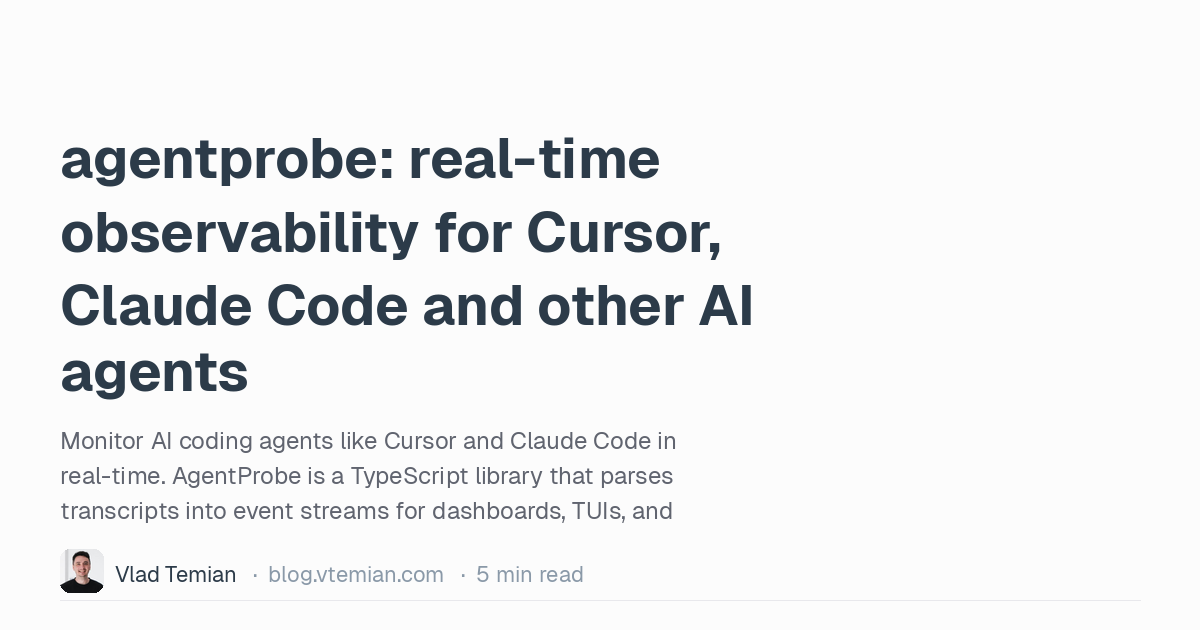
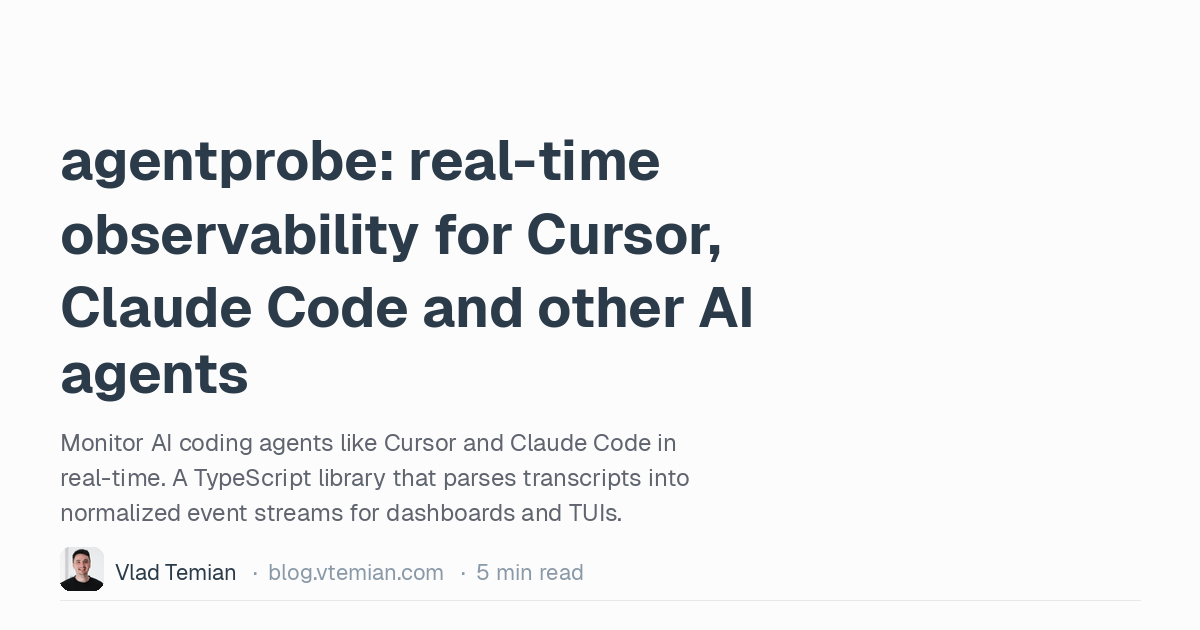
deploy: c3f24498559d6feacc58ffbb79bd29b6831778b7

diff --git a/project/agentprobe/index.html b/project/agentprobe/index.html
@@ -1,4 +1,4 @@
-<!doctype html><html lang=en><head><script>localStorage.getItem("theme")==="dark"&&document.documentElement.classList.add("dark")</script><meta http-equiv=X-UA-Compatible content="IE=edge"><meta name=viewport content="width=device-width,minimum-scale=1"><link rel=preconnect href=https://cdn.jsdelivr.net crossorigin><link rel=stylesheet href=https://cdn.jsdelivr.net/npm/geist@1/dist/fonts/geist-sans/style.css><link rel=stylesheet href=https://cdn.jsdelivr.net/npm/geist@1/dist/fonts/geist-mono/style.css><link rel=stylesheet href=//cdnjs.cloudflare.com/ajax/libs/highlight.js/11.9.0/styles/nord.min.css><script src=//cdnjs.cloudflare.com/ajax/libs/highlight.js/11.9.0/highlight.min.js></script><script>hljs.highlightAll()</script><meta charset=utf-8><meta name=robots content="index,follow"><link rel=canonical href=https://blog.vtemian.com/project/agentprobe/><link rel=icon type=image/svg+xml href=https://blog.vtemian.com/favicon.svg><link rel=apple-touch-icon href=https://blog.vtemian.com/favicon.svg><meta name=keywords content="agentprobe,ai agent observability,coding agent monitoring,cursor agent monitoring,claude code observability,monitor cursor agents,ai agent dashboard,parse cursor transcripts,typescript observability library,real-time agent events,agent lifecycle events,cursor plugin development,tui for coding agents"><meta name=description content="Monitor AI coding agents like Cursor and Claude Code in real-time. AgentProbe is a TypeScript library that parses transcripts into event streams for dashboards, TUIs, and multi-agent monitoring."><meta property="og:url" content="https://blog.vtemian.com/project/agentprobe/"><meta property="og:site_name" content="Vlad Temian - Centrist Tech Optimist"><meta property="og:title" content="agentprobe: real-time observability for Cursor, Claude Code and other AI agents"><meta property="og:description" content="Monitor AI coding agents like Cursor and Claude Code in real-time. AgentProbe is a TypeScript library that parses transcripts into event streams for dashboards, TUIs, and multi-agent monitoring."><meta property="og:locale" content="en_US"><meta property="og:type" content="article"><meta property="article:published_time" content="2026-03-09T00:00:00+03:00"><meta property="article:modified_time" content="2026-03-09T00:00:00+03:00"><meta property="article:tag" content="Ai"><meta property="article:tag" content="Tools"><meta property="article:tag" content="Open-Source"><meta property="article:tag" content="Agentic-Programming"><meta property="article:tag" content="Typescript"><meta property="article:tag" content="Observability"><meta property="og:image" content="https://blog.vtemian.com/project/agentprobe/og.png"><meta name=twitter:card content="summary_large_image"><meta name=twitter:title content="agentprobe: real-time observability for Cursor, Claude Code and other AI agents"><meta name=twitter:description content="Monitor AI coding agents like Cursor and Claude Code in real-time. AgentProbe is a TypeScript library that parses transcripts into event streams for dashboards, TUIs, and multi-agent monitoring."><meta name=twitter:image content="https://blog.vtemian.com/project/agentprobe/og.png"><script type=application/ld+json>{"@context":"https://schema.org","@type":"BlogPosting","mainEntityOfPage":{"@type":"WebPage","@id":"https:\/\/blog.vtemian.com\/project\/agentprobe\/"},"headline":"agentprobe: real-time observability for Cursor, Claude Code and other AI agents","description":"Monitor AI coding agents like Cursor and Claude Code in real-time. AgentProbe is a TypeScript library that parses transcripts into event streams for dashboards, TUIs, and multi-agent monitoring.","inLanguage":"en-US","author":{"@type":"Person","name":"Vlad Temian","url":"https:\/\/blog.vtemian.com\/","sameAs":["https://github.com/vtemian","https://linkedin.com/in/vtemian","https://x.com/vtemian"]},"publisher":{"@type":"Person","name":"Vlad Temian"},"datePublished":"2026-03-09T00:00:00\u002b03:00","dateModified":"2026-03-09T00:00:00\u002b03:00","url":"https:\/\/blog.vtemian.com\/project\/agentprobe\/","wordCount":844,"timeRequired":"PT4M","keywords":["ai","tools","open-source","agentic-programming","typescript","observability"]}</script><script type=application/ld+json>{"@context":"https://schema.org","@type":"BreadcrumbList","itemListElement":[{"@type":"ListItem","position":1,"name":"Home","item":"https:\/\/blog.vtemian.com\/"},{"@type":"ListItem","position":2,"name":"Project","item":"https:\/\/blog.vtemian.com\/project/"},{"@type":"ListItem","position":3,"name":"agentprobe: real-time observability for Cursor, Claude Code and other AI agents","item":"https:\/\/blog.vtemian.com\/project\/agentprobe\/"}]}</script><title>agentprobe: real-time observability for Cursor, Claude Code and other AI agents | Vlad Temian - Centrist Tech Optimist</title>
+<!doctype html><html lang=en><head><script>localStorage.getItem("theme")==="dark"&&document.documentElement.classList.add("dark")</script><meta http-equiv=X-UA-Compatible content="IE=edge"><meta name=viewport content="width=device-width,minimum-scale=1"><link rel=preconnect href=https://cdn.jsdelivr.net crossorigin><link rel=stylesheet href=https://cdn.jsdelivr.net/npm/geist@1/dist/fonts/geist-sans/style.css><link rel=stylesheet href=https://cdn.jsdelivr.net/npm/geist@1/dist/fonts/geist-mono/style.css><link rel=stylesheet href=//cdnjs.cloudflare.com/ajax/libs/highlight.js/11.9.0/styles/nord.min.css><script src=//cdnjs.cloudflare.com/ajax/libs/highlight.js/11.9.0/highlight.min.js></script><script>hljs.highlightAll()</script><meta charset=utf-8><meta name=robots content="index,follow"><link rel=canonical href=https://blog.vtemian.com/project/agentprobe/><link rel=icon type=image/svg+xml href=https://blog.vtemian.com/favicon.svg><link rel=apple-touch-icon href=https://blog.vtemian.com/favicon.svg><meta name=keywords content="agentprobe,ai agent observability,coding agent monitoring,cursor agent monitoring,claude code observability,monitor cursor agents,ai agent dashboard,parse cursor transcripts,typescript observability library,real-time agent events,agent lifecycle events,cursor plugin development,tui for coding agents"><meta name=description content="Monitor AI coding agents like Cursor and Claude Code in real-time. A TypeScript library that parses transcripts into normalized event streams for dashboards and TUIs."><meta property="og:url" content="https://blog.vtemian.com/project/agentprobe/"><meta property="og:site_name" content="Vlad Temian - Centrist Tech Optimist"><meta property="og:title" content="agentprobe: real-time observability for Cursor, Claude Code and other AI agents"><meta property="og:description" content="Monitor AI coding agents like Cursor and Claude Code in real-time. A TypeScript library that parses transcripts into normalized event streams for dashboards and TUIs."><meta property="og:locale" content="en_US"><meta property="og:type" content="article"><meta property="article:published_time" content="2026-03-09T00:00:00+03:00"><meta property="article:modified_time" content="2026-03-09T00:00:00+03:00"><meta property="article:tag" content="Ai"><meta property="article:tag" content="Tools"><meta property="article:tag" content="Open-Source"><meta property="article:tag" content="Agentic-Programming"><meta property="article:tag" content="Typescript"><meta property="article:tag" content="Observability"><meta property="og:image" content="https://blog.vtemian.com/project/agentprobe/og.png"><meta name=twitter:card content="summary_large_image"><meta name=twitter:title content="agentprobe: real-time observability for Cursor, Claude Code and other AI agents"><meta name=twitter:description content="Monitor AI coding agents like Cursor and Claude Code in real-time. A TypeScript library that parses transcripts into normalized event streams for dashboards and TUIs."><meta name=twitter:image content="https://blog.vtemian.com/project/agentprobe/og.png"><script type=application/ld+json>{"@context":"https://schema.org","@type":"BlogPosting","mainEntityOfPage":{"@type":"WebPage","@id":"https:\/\/blog.vtemian.com\/project\/agentprobe\/"},"headline":"agentprobe: real-time observability for Cursor, Claude Code and other AI agents","description":"Monitor AI coding agents like Cursor and Claude Code in real-time. A TypeScript library that parses transcripts into normalized event streams for dashboards and TUIs.","inLanguage":"en-US","author":{"@type":"Person","name":"Vlad Temian","url":"https:\/\/blog.vtemian.com\/","sameAs":["https://github.com/vtemian","https://linkedin.com/in/vtemian","https://x.com/vtemian"]},"publisher":{"@type":"Person","name":"Vlad Temian"},"datePublished":"2026-03-09T00:00:00\u002b03:00","dateModified":"2026-03-09T00:00:00\u002b03:00","url":"https:\/\/blog.vtemian.com\/project\/agentprobe\/","wordCount":844,"timeRequired":"PT4M","keywords":["ai","tools","open-source","agentic-programming","typescript","observability"]}</script><script type=application/ld+json>{"@context":"https://schema.org","@type":"BreadcrumbList","itemListElement":[{"@type":"ListItem","position":1,"name":"Home","item":"https:\/\/blog.vtemian.com\/"},{"@type":"ListItem","position":2,"name":"Project","item":"https:\/\/blog.vtemian.com\/project/"},{"@type":"ListItem","position":3,"name":"agentprobe: real-time observability for Cursor, Claude Code and other AI agents","item":"https:\/\/blog.vtemian.com\/project\/agentprobe\/"}]}</script><title>agentprobe: real-time observability for Cursor, Claude Code and other AI agents | Vlad Temian - Centrist Tech Optimist</title>
 <link rel=stylesheet href=https://blog.vtemian.com/stylesheets/main.min.a3dd6e53cb8317669f7120e254ee74bc7ddd98748ed802cc4adc882876a27160.css media=screen><meta name=google-site-verification content="2qk_e0y84NNSVpaorKgeNURYF9Ni3UyJvPq9GZdGEgs"></head><body class="bg-bg font-sans text-sm leading-relaxed text-ink antialiased"><div class="mx-auto flex max-w-2xl flex-col gap-12 px-5 py-12"><a href=https://blog.vtemian.com/ class="font-mono text-xs tracking-wide text-muted">Back</a><article class="flex flex-col gap-12"><header class="flex flex-col gap-2"><h1 class=text-2xl>agentprobe: real-time observability for Cursor, Claude Code and other AI agents</h1><p class="text-xs text-link">March 2026</p></header><div class="flex flex-col gap-4"><p>You want to build a dashboard that shows what your coding agents are doing. Or a TUI. Or a Cursor plugin. Or an OpenCode extension. The biggest challenge with AI agents today is <strong>trust</strong>. How do you know what your agent is doing when it&rsquo;s deep in a 50-file refactoring? You need a clean, real-time stream of agent state: who&rsquo;s running, who&rsquo;s idle, who just finished, who just failed.</p><p>Every AI coding tool stores transcripts differently. <strong>Cursor</strong> dumps JSONL files with mixed formats. <strong>Claude Code</strong> has its own structure. <strong>OpenCode</strong> another. Parsing each one, tracking state changes, and handling edge cases is plumbing you shouldn&rsquo;t repeat in every tool you build.</p><p><strong><a href=https://github.com/vtemian/agentprobe>AgentProbe</a></strong> is a TypeScript library that handles the plumbing. Transcripts in, normalized events out. Building blocks for whatever you want to build on top.</p><h2 id=passive-observability-why-we-parse-transcripts>Passive Observability: Why We Parse Transcripts</h2><p>Most observability tools like LangSmith or AgentOps require &ldquo;active&rdquo; instrumentation. You have to wrap your LLM calls or instrument the agent&rsquo;s code. But what if you don&rsquo;t own the code?</p><p>Tools like <strong>Cursor</strong> and <strong>Claude Code</strong> are proprietary or complex to modify. You can&rsquo;t easily inject tracing code into them. <strong>AgentProbe</strong> takes a different approach: <strong>Passive Observability</strong>. It watches the artifacts these tools <em>already</em> leave behind (transcripts, logs, files) and reconstructs the agent&rsquo;s lifecycle from those signals.</p><p>This makes it the perfect library for building <strong>Cursor plugins</strong>, <strong>AI dashboards</strong>, or <strong>multi-agent orchestration hooks</strong> without needing to modify the agents themselves.</p><h2 id=building-blocks-not-a-product>Building Blocks, Not a Product</h2><p>AgentProbe isn&rsquo;t a tool you run. It&rsquo;s a library other tools import. A few lines to start monitoring your workspace:</p><div class=highlight><pre tabindex=0 style=color:#f8f8f2;background-color:#272822;-moz-tab-size:4;-o-tab-size:4;tab-size:4><code class=language-typescript data-lang=typescript><span style=display:flex><span><span style=color:#66d9ef>import</span> { <span style=color:#a6e22e>createObserver</span> } <span style=color:#66d9ef>from</span> <span style=color:#e6db74>&#34;@agentprobe/core&#34;</span>;
 </span></span><span style=display:flex><span>
 </span></span><span style=display:flex><span><span style=color:#66d9ef>const</span> <span style=color:#a6e22e>observer</span> <span style=color:#f92672>=</span> <span style=color:#a6e22e>createObserver</span>({

diff --git a/project/agentprobe/index.md b/project/agentprobe/index.md
@@ -3,7 +3,7 @@ title: "agentprobe: real-time observability for Cursor, Claude Code and other AI
 date: 2026-03-09
 author: Vlad Temian
 url: https://blog.vtemian.com/project/agentprobe/
-description: "Monitor AI coding agents like Cursor and Claude Code in real-time. AgentProbe is a TypeScript library that parses transcripts into event streams for dashboards, TUIs, and multi-agent monitoring."
+description: "Monitor AI coding agents like Cursor and Claude Code in real-time. A TypeScript library that parses transcripts into normalized event streams for dashboards and TUIs."
 tags: [ai, tools, open-source, agentic-programming, typescript, observability]
 ---
 
